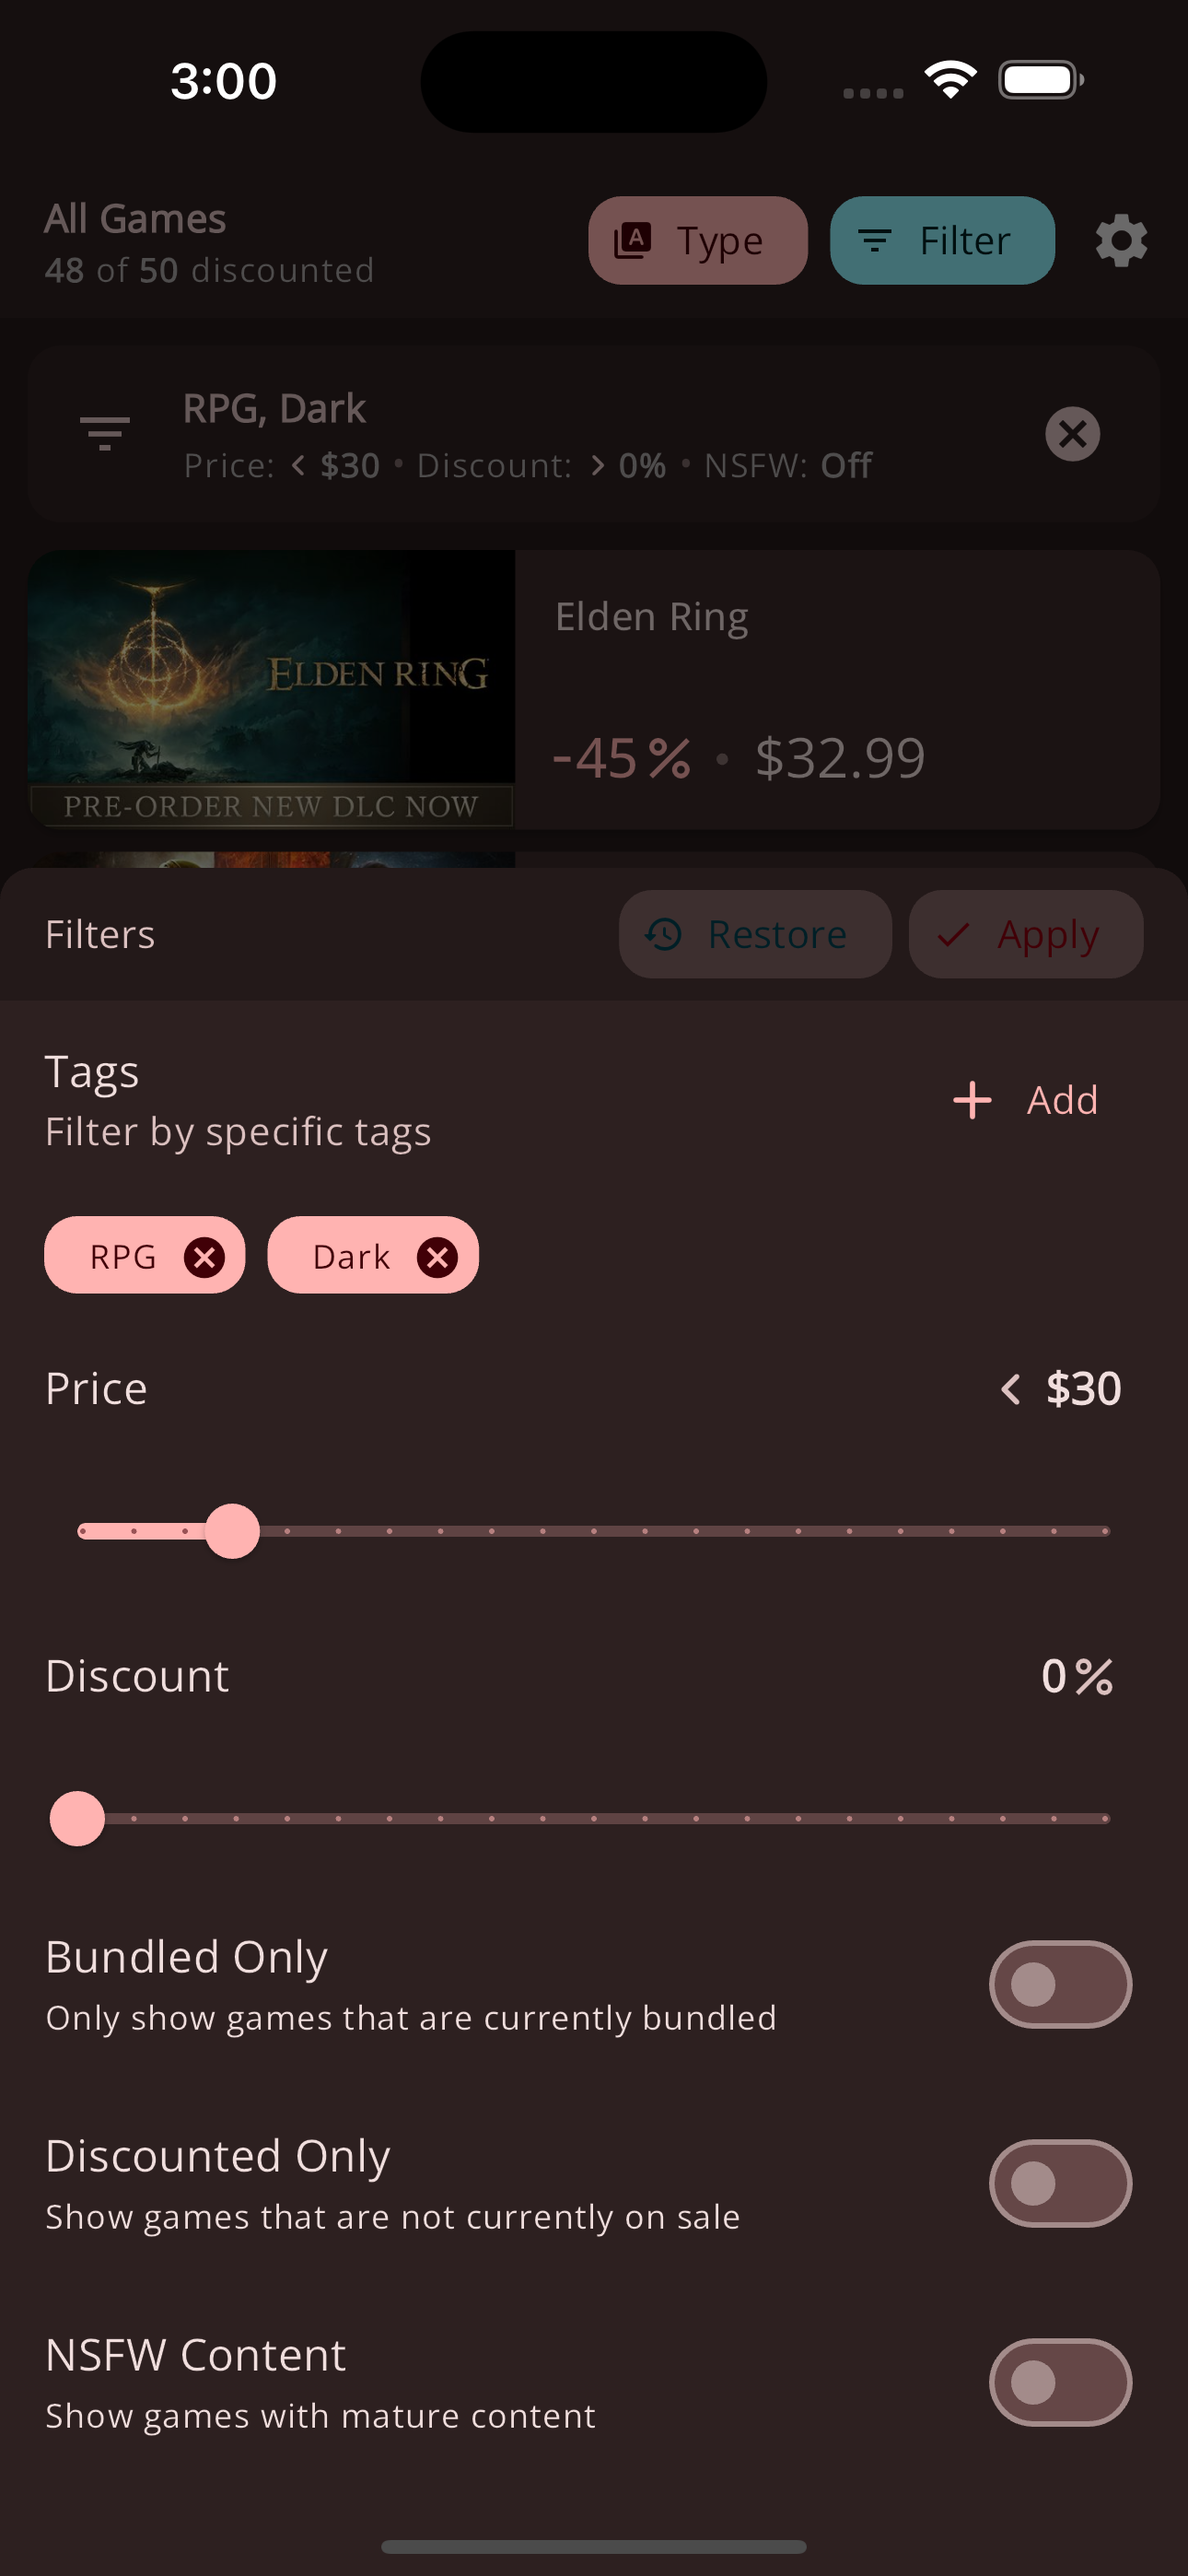
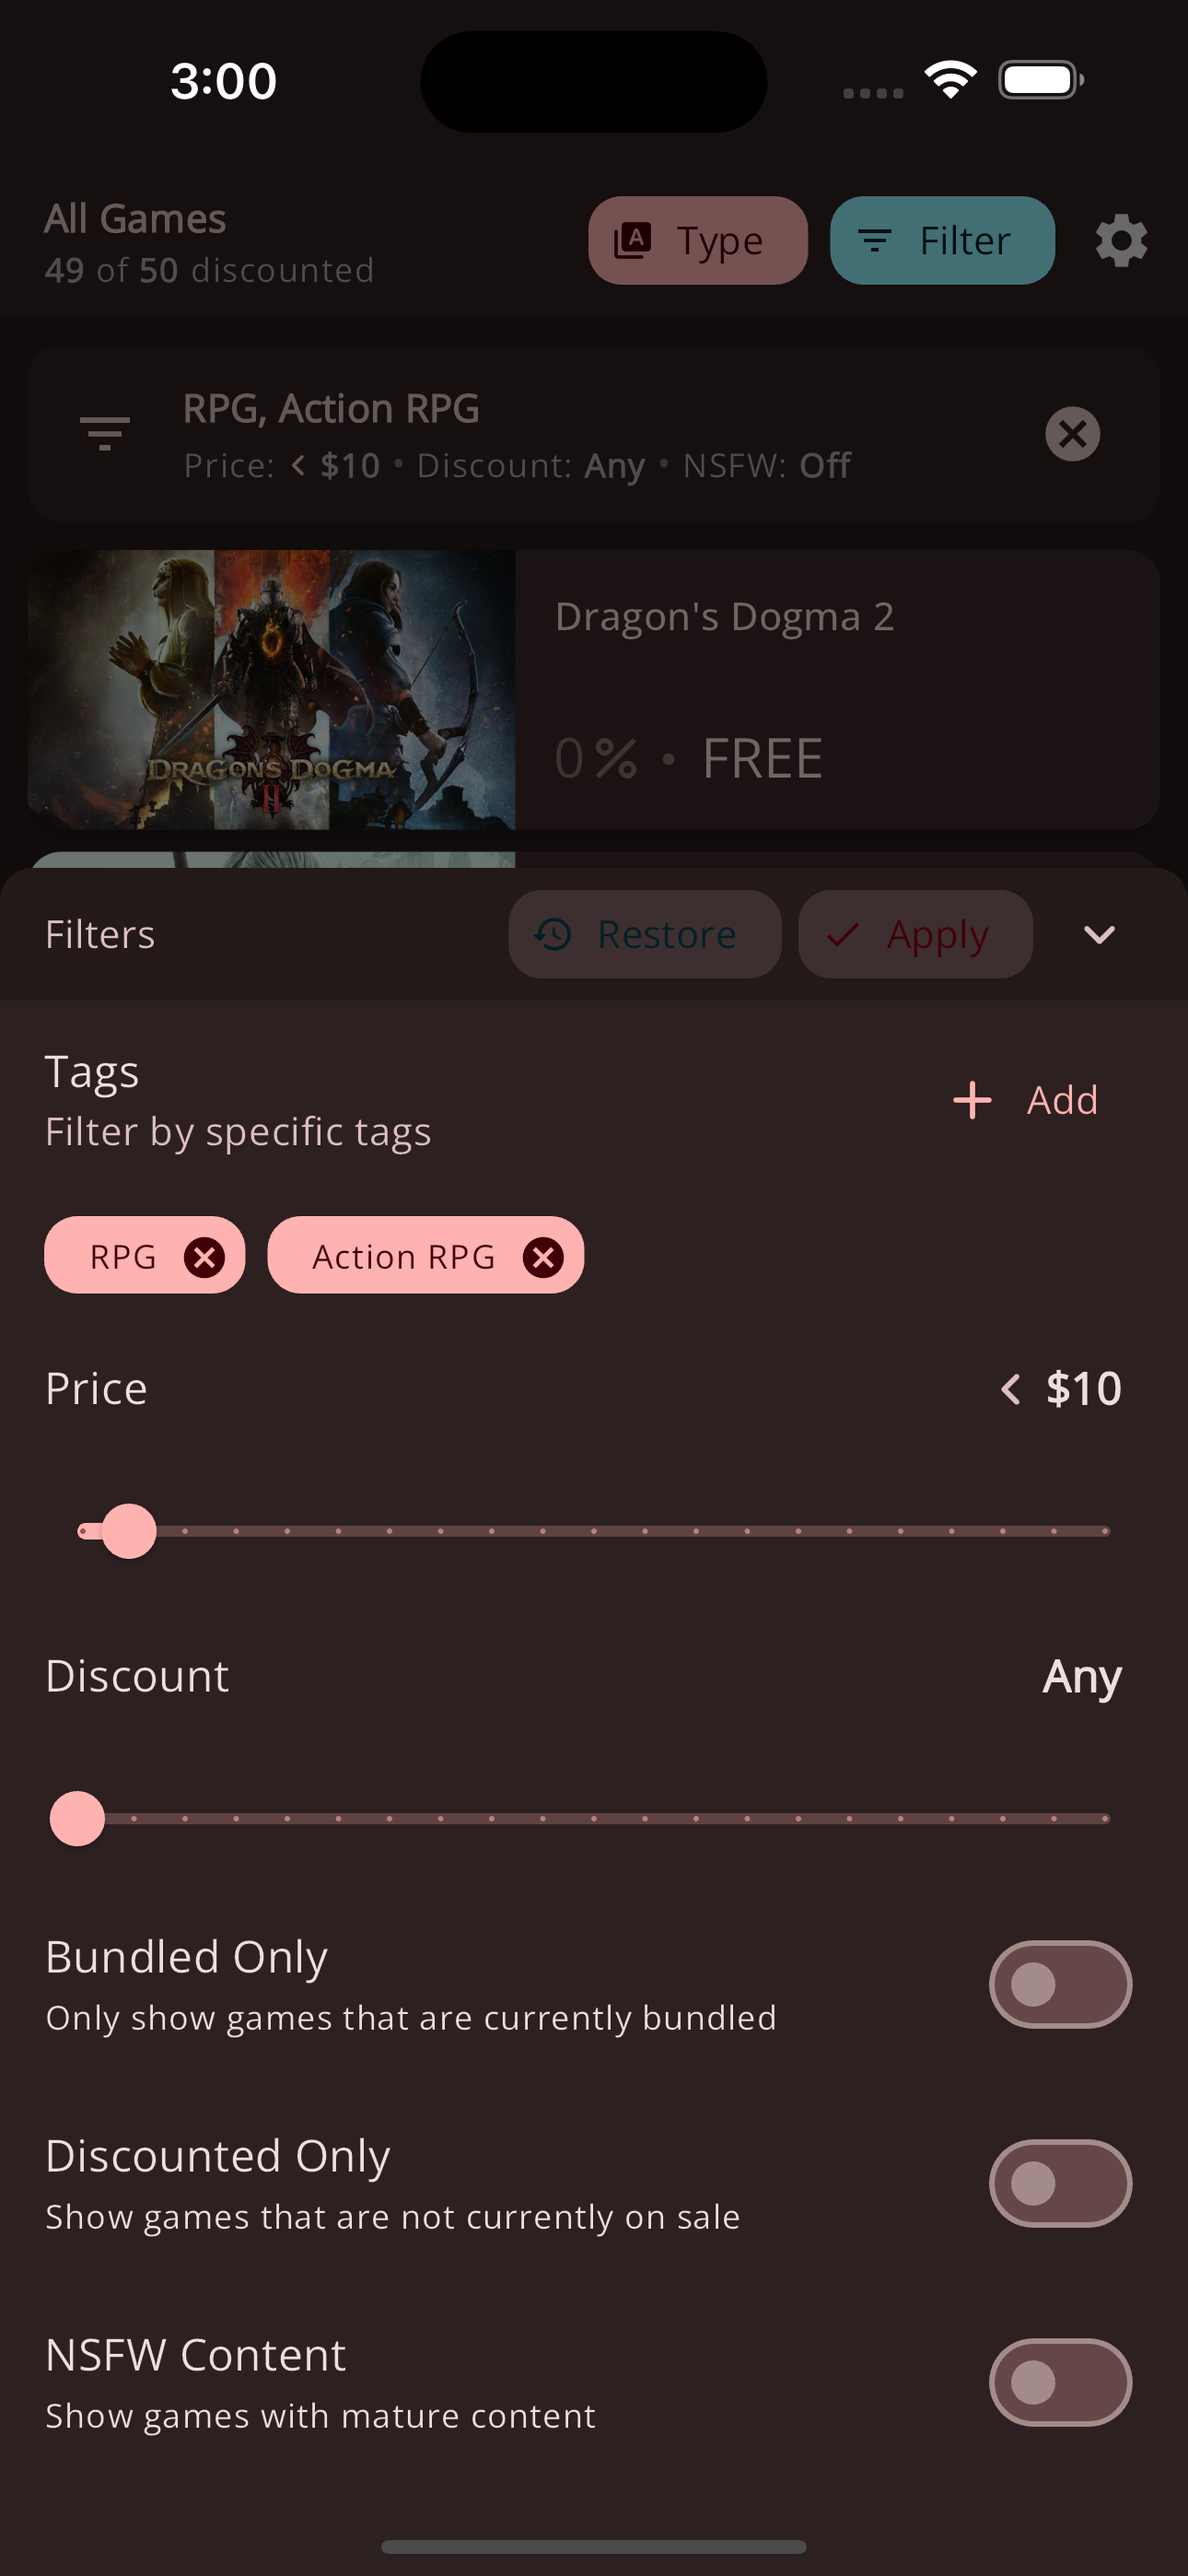
Update screenshots

diff --git a/test_driver/screenshot_test.dart b/test_driver/screenshot_test.dart
@@ -29,6 +29,7 @@ void main() async {
     await driver.waitUntilNoTransientCallbacks(
       timeout: const Duration(seconds: 10),
     );
+    await Future.delayed(const Duration(seconds: 2));
     await screenshot.capture(identifier);
   }
 
@@ -55,6 +56,13 @@ void main() async {
     await driver.tap(find.pageBack());
   }
 
+  closeBottomSheet() async {
+    await driver.tap(find.byValueKey('close-bottom-sheet-button'));
+    await driver.waitUntilNoTransientCallbacks(
+      timeout: const Duration(seconds: 10),
+    );
+  }
+
   test('Deals Page', () async {
     await toggleTheme('dark');
 
@@ -67,7 +75,7 @@ void main() async {
 
     await takeScreenshot('deals_page_filters');
 
-    await driver.tap(find.byType('ModalBarrier'));
+    await closeBottomSheet();
   });
 
   test('Waitlist Page', () async {
@@ -79,7 +87,7 @@ void main() async {
 
     await takeScreenshot('waitlist_page_filters');
 
-    await driver.tap(find.byType('ModalBarrier'));
+    await closeBottomSheet();
   });
 
   test('Search Page', () async {
@@ -127,6 +135,9 @@ void main() async {
     for (String scheme in testColorSchemes) {
       await toggleColorScheme(scheme);
       await driver.waitFor(find.byValueKey('waitlist-scroll-view'));
+      await driver.waitUntilNoTransientCallbacks(
+        timeout: const Duration(seconds: 10),
+      );
 
       await takeScreenshot('waitlist_page_$scheme');
     }

diff --git a/test_driver/mocks/itad_filters_mocks.dart b/test_driver/mocks/itad_filters_mocks.dart
@@ -7,6 +7,17 @@ import 'package:observatory/shared/models/itad_filters.dart';
 import 'package:observatory/shared/models/price.dart';
 import 'package:observatory/shared/models/shop.dart';
 
+const ITADFilters filtersMock = ITADFilters(
+  price: MinMax(
+    min: 0,
+    max: 10,
+  ),
+  cut: null,
+  bundled: false,
+  mature: false,
+  tags: ['RPG', 'Action RPG'],
+);
+
 final List<Deal> waitlist = [
   const Deal(
     id: '018d937f-505a-7386-b1c4-42986a89ec79',
@@ -252,19 +263,6 @@ class ITADFiltersNotifierMock extends AutoDisposeNotifier<ITADFiltersConfig>
     implements ITADFiltersNotifier {
   @override
   ITADFiltersConfig build() {
-    const ITADFilters filtersMock = ITADFilters(
-      price: MinMax(
-        min: 0,
-        max: 30,
-      ),
-      cut: MinMax(
-        min: 0,
-        max: 100,
-      ),
-      bundled: false,
-      tags: ['RPG', 'Dark'],
-    );
-
     return const ITADFiltersConfig(
       cached: filtersMock,
       current: filtersMock,

diff --git a/test_driver/screenshot.dart b/test_driver/screenshot.dart
@@ -43,6 +43,8 @@ void main() async {
     anonKey: GetIt.I<Secret>().supabaseAnonKey,
   );
 
+  await GetIt.I<SettingsRepository>().setITADFilters(filtersMock);
+
   runApp(
     ProviderScope(
       overrides: [
